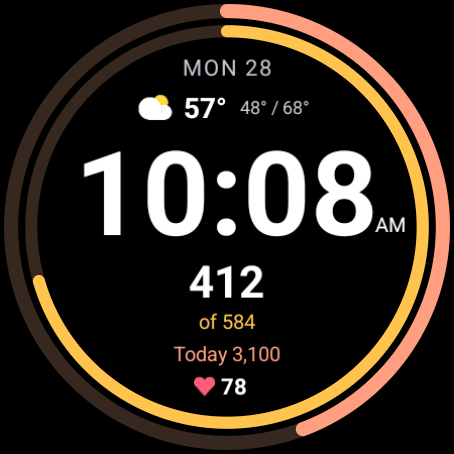
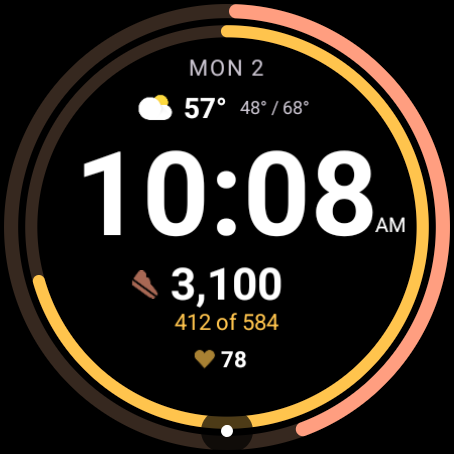
Make today's total the big number, with a stepping shoe
The total now leads, with "412 of 584" for the interval under it and the heart
rate moved up into the space. Goal met tints the total and shoe and says so under
the heart rate. Paused and Off take the big number's place. Refreshes the preview,
flavor icons and screenshots for the final layout.

diff --git a/README.md b/README.md
@@ -5,7 +5,8 @@ time, in the app's seven colour themes.
 
 - **Outer ring:** today's steps against the daily goal. It turns the theme's goal colour once met.
 - **Inner ring:** this interval's steps against its target.
-- **Numbers:** the interval's steps, "of 584", and "Today 3,100" or "Goal met · 7,040".
+- **Numbers:** today's total as the big number beside a stepping shoe, with "412 of 584" for this
+  interval under it.
 - **Reminder segments (optional):** the outer ring cut into one segment per reminder.
 - **Weather:** an icon for the condition, the current temperature, and today's low / high.
 - **Heart rate:** the watch's latest reading.
@@ -27,12 +28,12 @@ app, it keeps the fallback below until you remove and re-add it, or pick the sou
 
 | App state | Rings | Text |
 |---|---|---|
-| Active | both fill | number, "of 584", "Today 3,100" |
-| Daily goal met | outer ring full, in the goal colour | "Goal met · 7,040" |
+| Active | both fill | "3,100", "412 of 584" |
+| Daily goal met | outer ring full, in the goal colour | the total in the goal colour, "412 of 584", "Goal met" |
 | Paused | empty tracks | "Paused" |
 | Day off | empty tracks | "Off" |
-| Outside the reminder window | inner ring empty | "--", and today's line stays |
-| App not installed | outer track from the watch's own step goal, inner ring hidden | "3,050 Steps", "Add Hourly Steps" |
+| Outside the reminder window | inner ring empty | the total, and "--" under it |
+| App not installed | outer track from the watch's own step goal, inner ring hidden | "3050", "Add Hourly Steps" |
 
 The numbers update when the app sends them: at most once a minute while you walk and every 5 minutes
 otherwise, the same as the app's tile.
@@ -186,8 +187,8 @@ read its output as well as its exit code.
 - The face can't tell how long an interval is, so it says "of 584", not "of 584 this hour".
 - The system step counter is text only, so without the app the ring comes from `[STEP_PERCENT]`.
   That reads 0 on the emulators, so this ring still needs checking on a real watch with the app removed.
-- Rings and text are vector. The only bitmaps are the preview, the flavor icons and the weather and
-  heart icons.
+- Rings and text are vector. The only bitmaps are the preview, the flavor icons and the weather,
+  heart and shoe icons.
 
 ## Credits
 
@@ -208,6 +209,6 @@ Not needed for this face to work, but they would improve it:
 
 ## Demo
 
-Screenshots in [demo/](demo/) are from the two emulators. The theme, preview and `large-active` /
-`small-active` shots use sample weather and step numbers. The `large-goal-met`, `-paused`, `-off` and
-`-outside-window-24h` shots are live app states from before the weather row was added.
+Screenshots in [demo/](demo/) are from the two emulators. The theme and `large-active` shots use
+sample weather, heart rate and step numbers. The others are live app states, so they have no weather
+and show `--` for heart rate.
